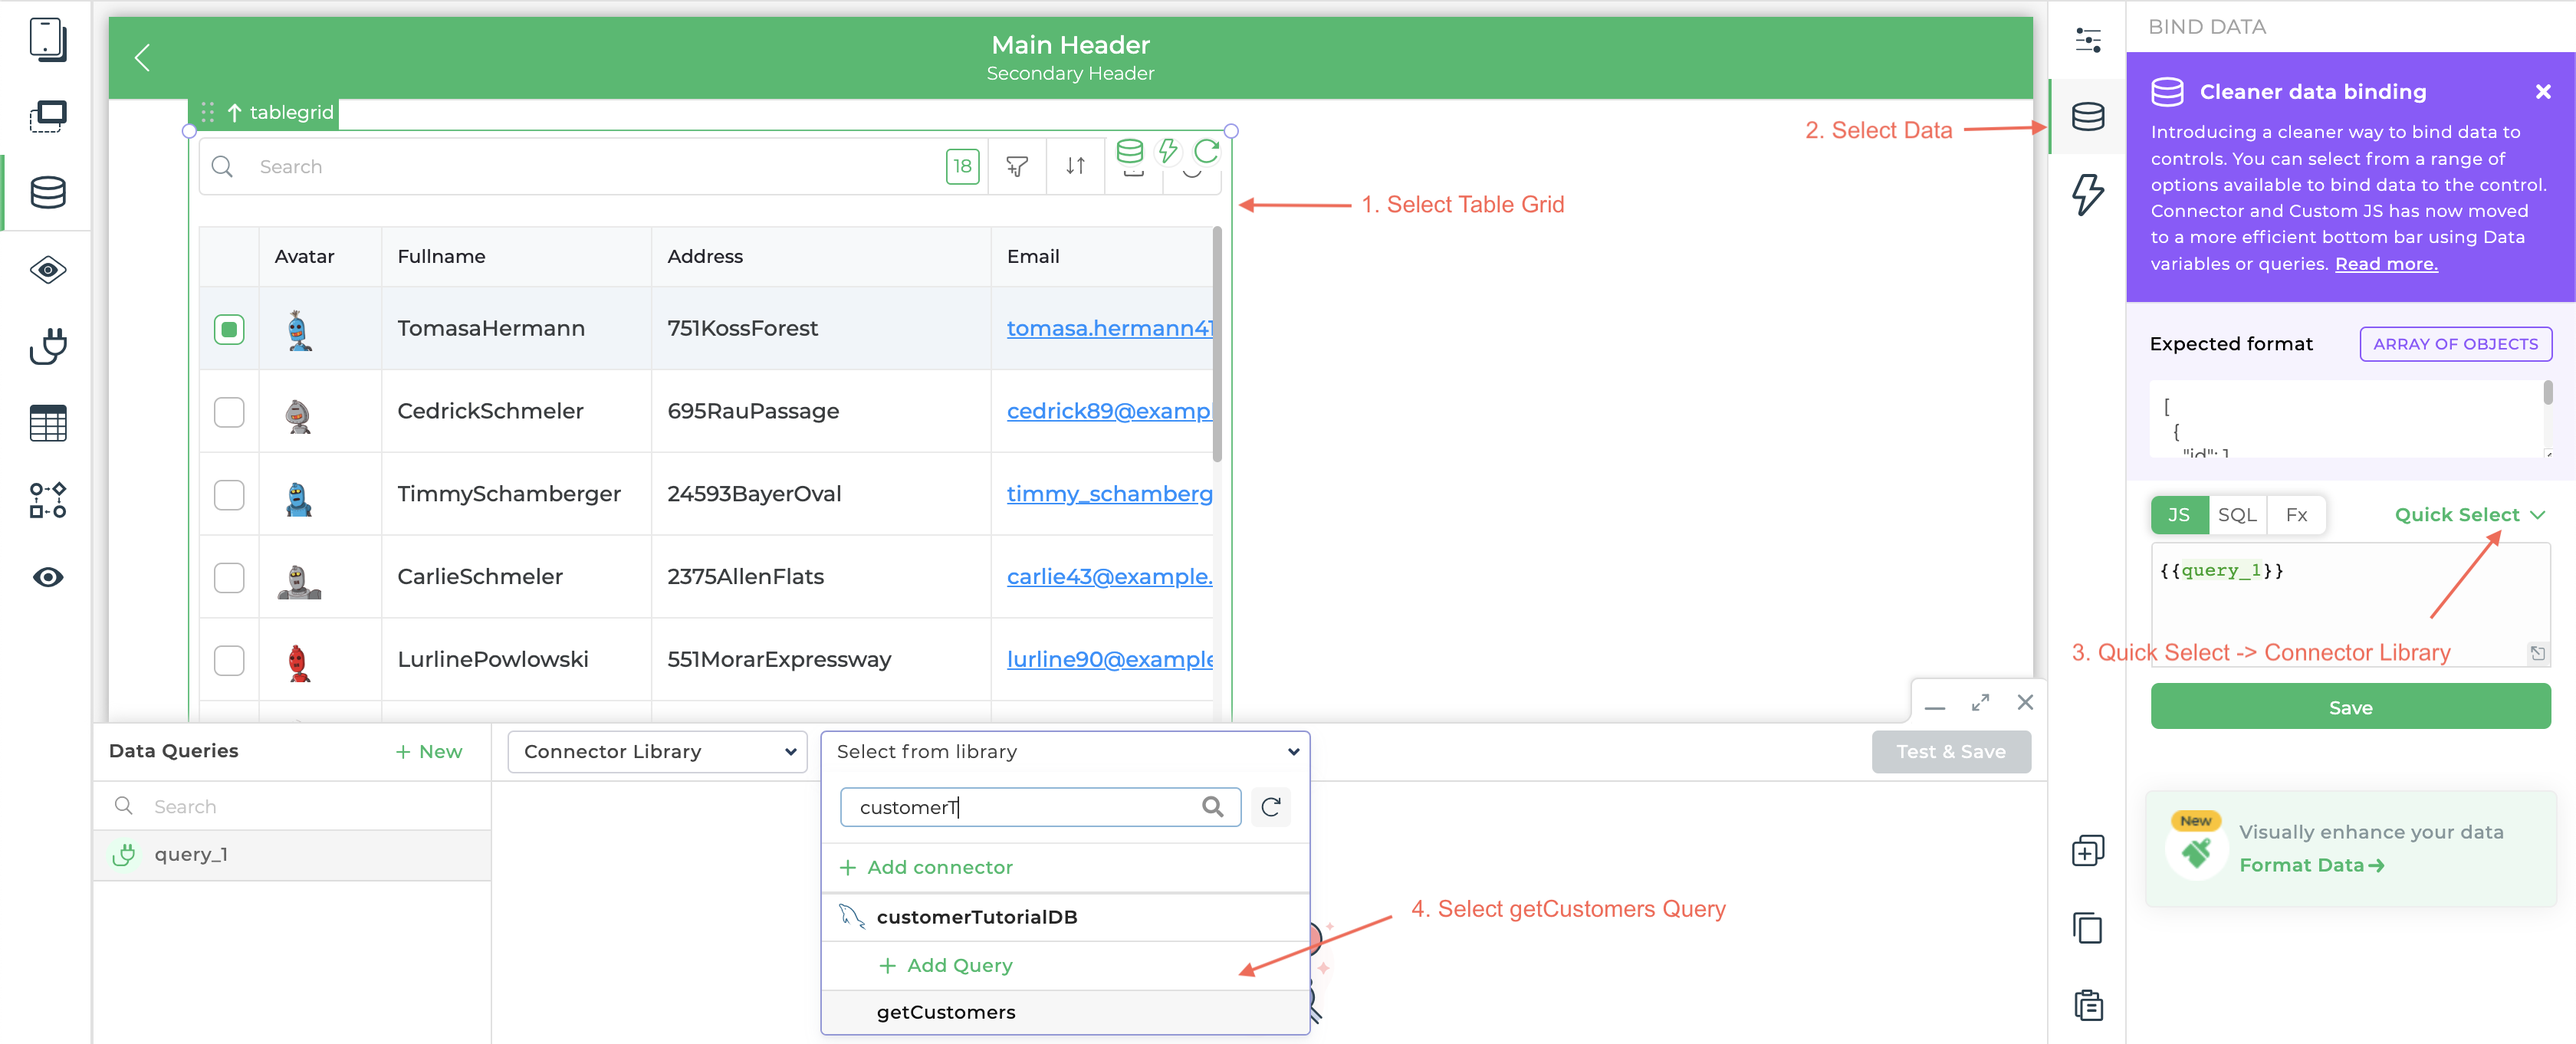
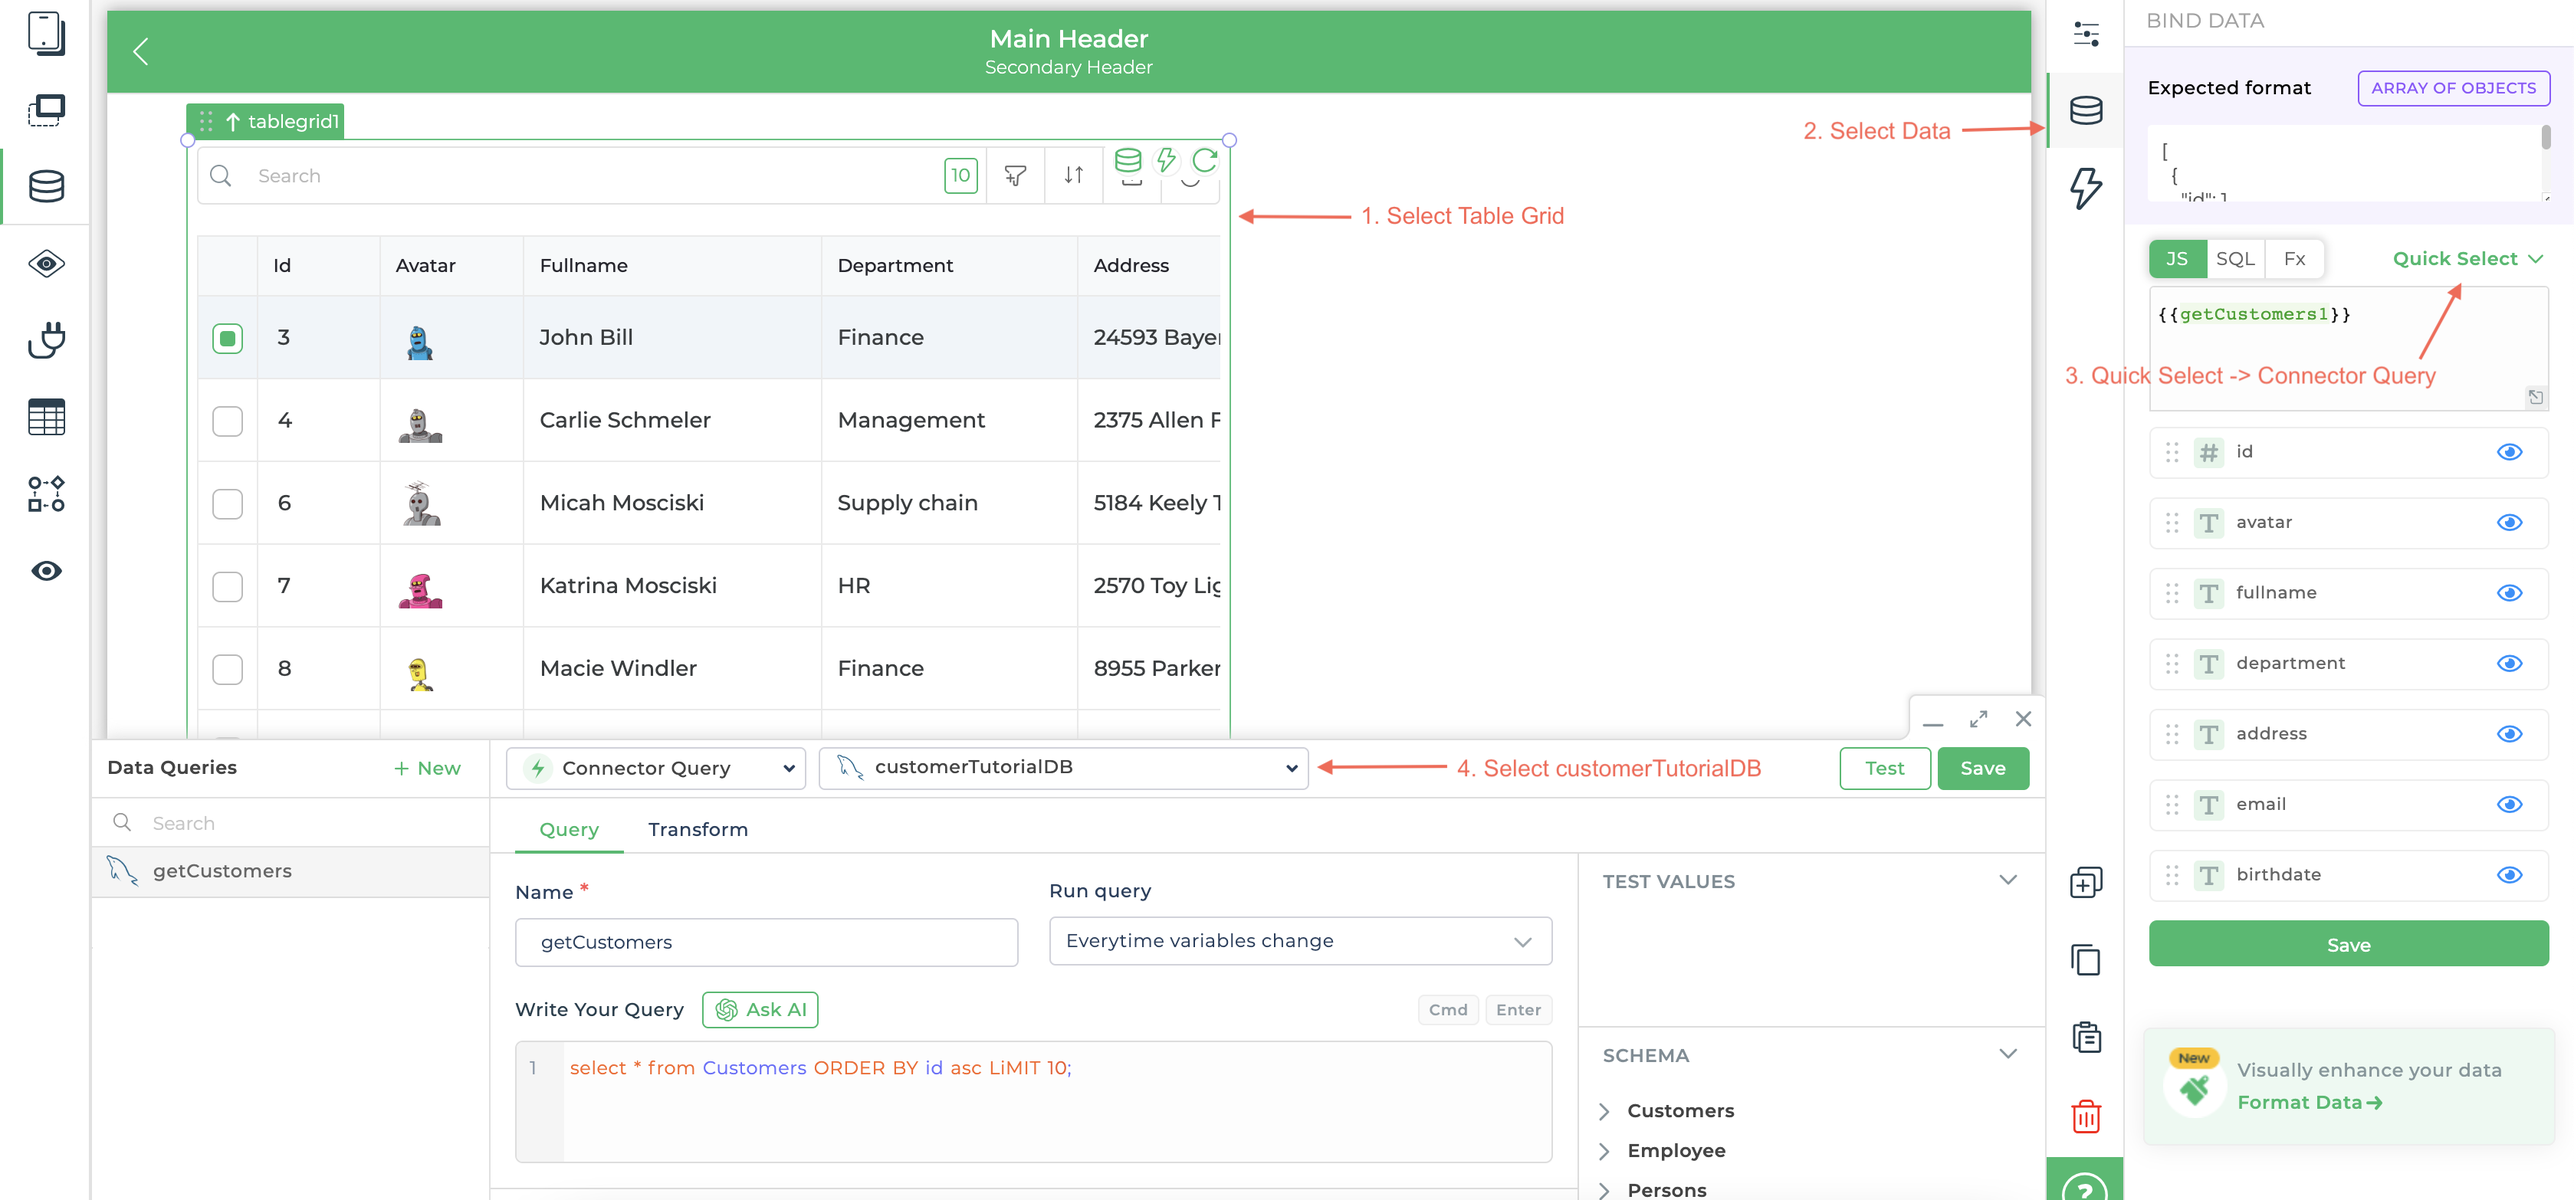
Update Bind data option to use Connector Query instead of Connector Library

diff --git a/docs/getting-started/build-basic-app.md b/docs/getting-started/build-basic-app.md
@@ -77,30 +77,7 @@ Here, we will connect to a `mysql` database.
 
 🚩 You've successfully connected to the MySQL database that contains customer information.
 
-## Fetch customer data
-
-1. Select `Connector Library -> customerTutorialDB -> + New Query`.
-
-
-<figure>
-  <Thumbnail src="/img/getting-started/add-query.png" style= {{width:"100%", height:"auto"}} alt="Add Query"/>
-  <figcaption align = "center"><i>Add Query</i></figcaption>
-</figure>
-
-2.  It loads the query editor which list all the tables of `customerTutorialDB` database. 
-
-3. Enter query name as `getCustomers`.
-
-4. Enter below query under `Write Your Query` to get first 10 `customers`.
-
-```sql
-select * from Customers ORDER BY id asc LiMIT 10;
-```
-5. Click on `Test Query` and then `Save` this query once test is successful.
-
-🚩 You've created your first query to fetch the list of customers in the database.
-
-## Display customer data in Table Grid
+## Fetch customer data and Display in Table Grid
 
 1. Click the `Controls` option in navigation menu to the left of screen.
 
@@ -108,19 +85,30 @@ select * from Customers ORDER BY id asc LiMIT 10;
 
 3. Select `Table Grid` control and select `Data` option in navigation menu to the right of screen.
 
-4. Select `Quick Select -> Connector Lirary -> customerTutorialDB -> getCustomers query`. 
+4. Select `Quick Select -> Connector Query -> customerTutorialDB`. It loads the query editor which list all the tables of `customerTutorialDB` database. 
+
+5. Enter query name as `getCustomers`.
+
+6. Enter below query under `Write Your Query` to get first 10 `customers`.
+
+```sql
+select * from Customers ORDER BY id asc LiMIT 10;
+```
+
+7. Click on `Test Query` and then `Save` this query once test is successful.
 
 <figure>
   <Thumbnail src="/img/getting-started/use-getcustomers-query.png" style= {{width:"100%", height:"auto"}} alt="Bind GetCustomers Query"/>
   <figcaption align = "center"><i>Bind GetCustomers Query</i></figcaption>
 </figure>
 
+8. Under `Transform Response -> Filter Keys` you can choose the list of keys that will be displayed in Table Grid control. If no keys are selected then all the Keys will be selected. 
 
-5. Under `Transform Response -> Filter Keys` you can choose the list of keys that will be displayed in Table Grid control. If no keys are selected then all the Keys will be selected. 
+9. Click `Test & Save`. This will display customers list in Table Grid control. 
 
-6. Click `Test & Save`. This will display customers list in Table Grid control. 
 
-🚩 You've displayed the results from the `getCustomers` query in the Table Grid control.
+🚩 You've created your first query to fetch the list of customers in the database and displayed the results from getCustomers query to Table Grid control.
+
 
 ## Build form to view customer details
 
@@ -146,16 +134,21 @@ select * from Customers ORDER BY id asc LiMIT 10;
     1. On the `property` pane to the right of the Screen, under `Label` section, rename the Text to `Address` from Default value.
     1. On the `data` pane to the right of the Screen, type `{{tablegrid.address}}` and click `Save`.  
 
-🚩 You've completed binding the data to the controls on the Form. Select the rows on the Table Grid to view the corresponding customer details on the Form.
-
 <figure>
   <Thumbnail src="/img/getting-started/view-data-form.png" style= {{width:"100%", height:"auto"}} alt="View customer details Form"/>
   <figcaption align = "center"><i>View customer details Form</i></figcaption>
 </figure>
 
+🚩 You've completed binding the data to the controls on the Form. Select the rows on the Table Grid to view the corresponding customer details on the Form.
+
 ## Update customer details
 
 1. Select `Connector Library -> customerTutorialDB -> + New Query`.
+
+<figure>
+  <Thumbnail src="/img/getting-started/add-query.png" style= {{width:"100%", height:"auto"}} alt="Add Query"/>
+  <figcaption align = "center"><i>Add Query</i></figcaption>
+</figure>
 
 2.  It loads the query editor which list all the tables of `customerTutorialDB` database. 
 
